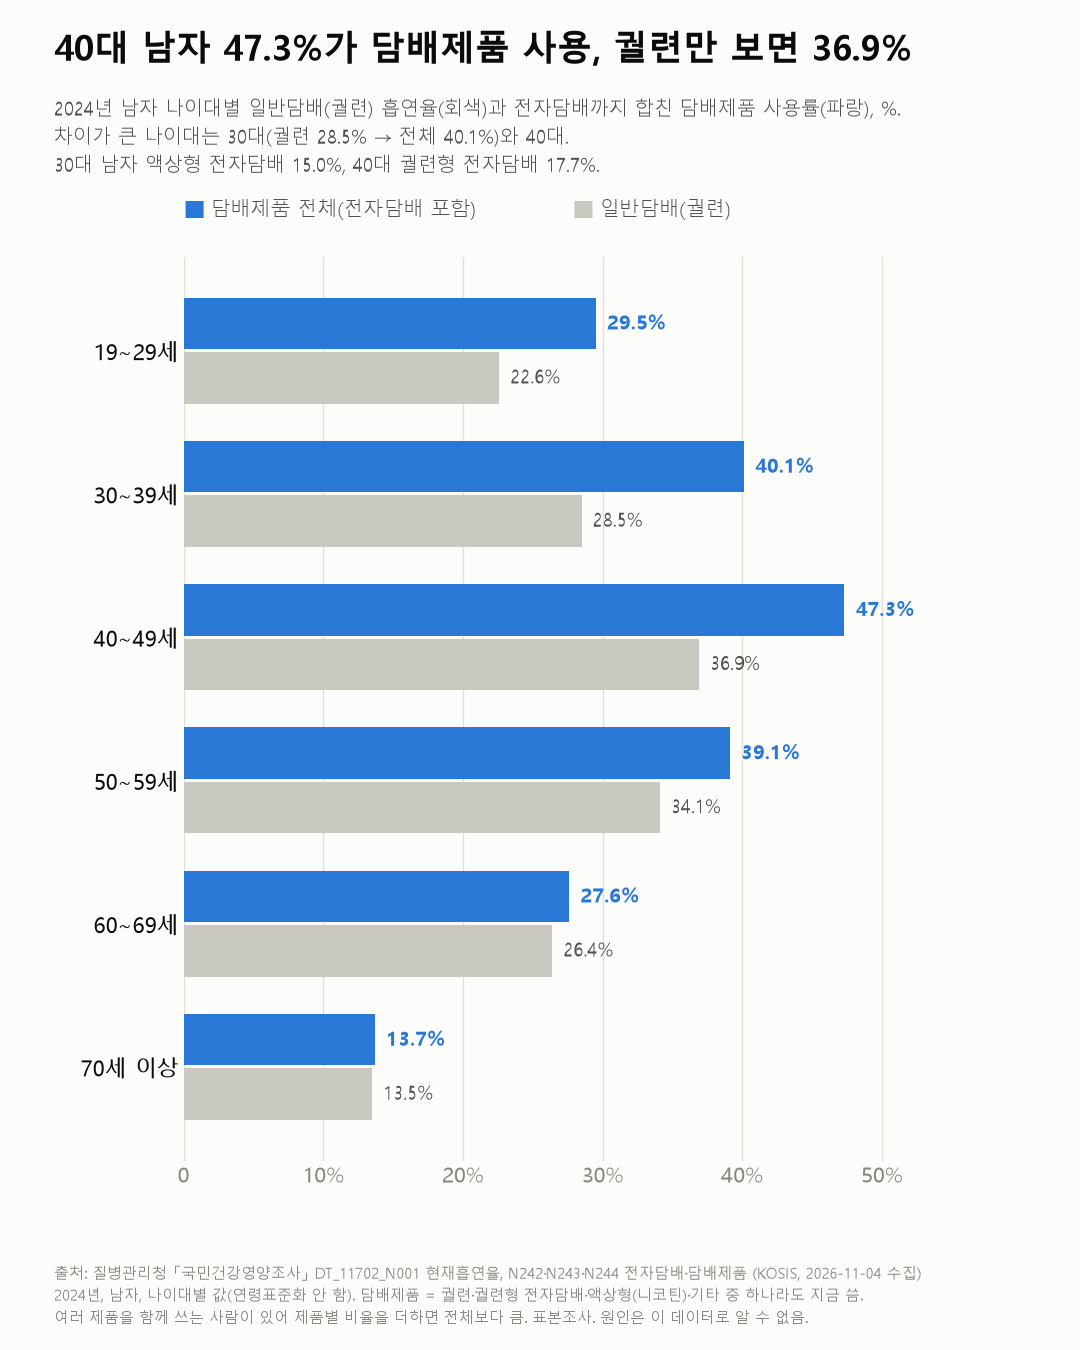
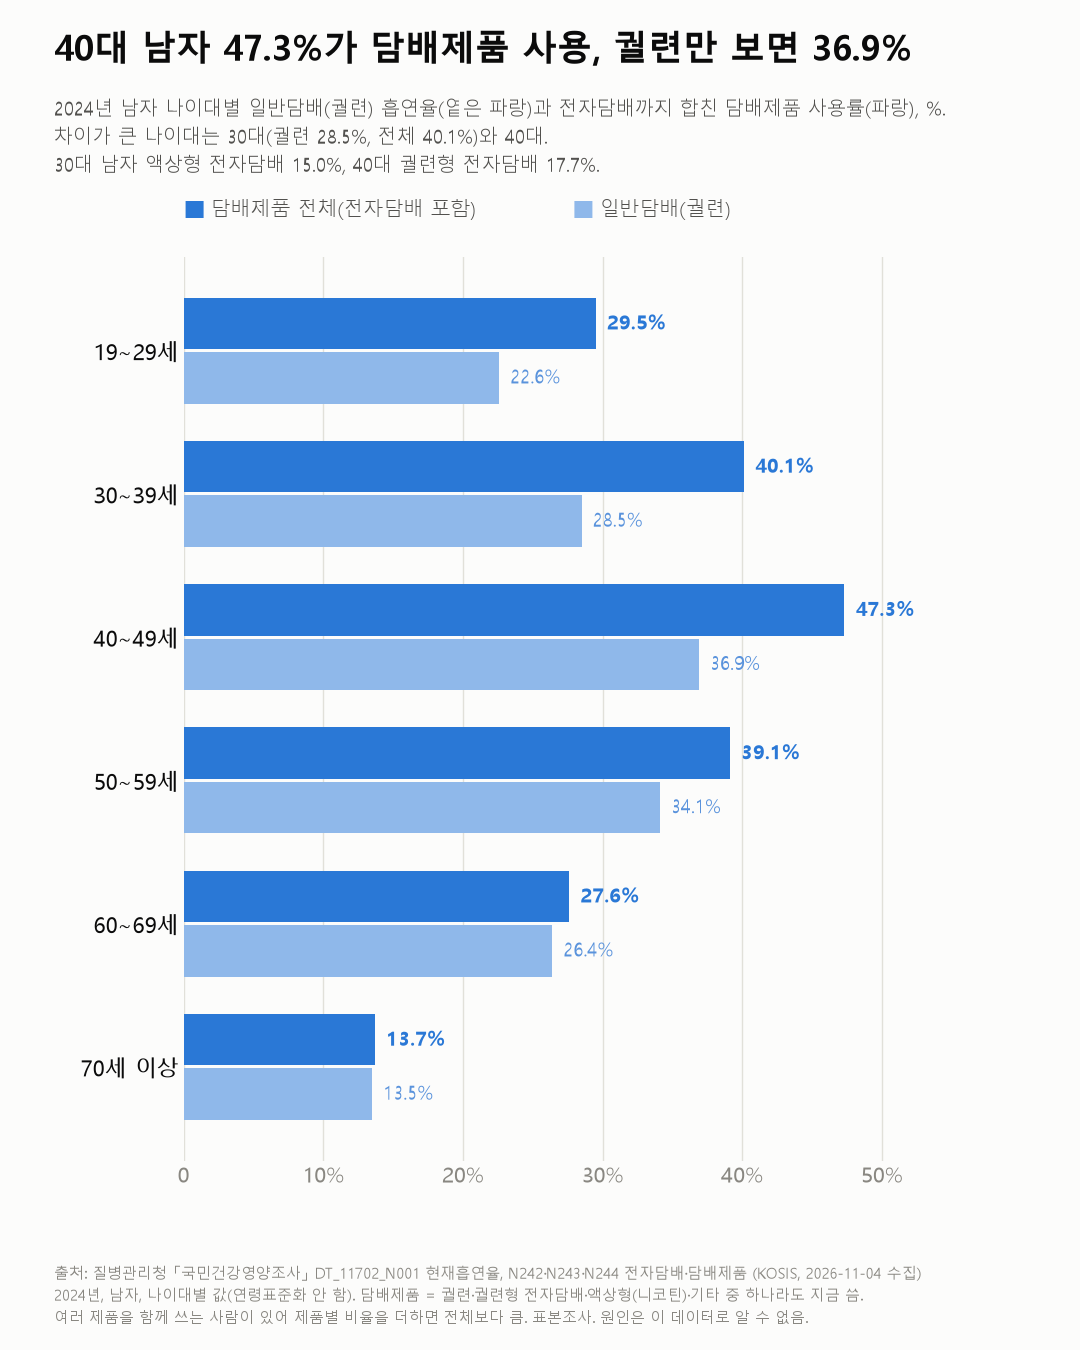
사이트 갱신

diff --git a/2026-11_smoking/index.html b/2026-11_smoking/index.html
@@ -69,7 +69,7 @@
 <p><strong>1. 2024년 남자 일반담배(궐련) 흡연율은 28.5%로, 1998년(66.3%, 20세 이상)의 절반 아래다.</strong> 여자는 6.5% → 4.2%.</p>
 <p><strong>2. 전자담배까지 합친 담배제품 사용률은 남자 36.0%, 여자 6.9%.</strong> 궐련만 볼 때보다 남자 7.5%p, 여자 2.7%p 높다.</p>
 <p><strong>3. 2019년 이후 남자 궐련은 35.7% → 28.5%로 줄었지만, 담배제품 전체는 39.7% → 36.0%로 덜 줄었다.</strong></p>
-<p><strong>4. 2024년 40대 남자는 47.3%가 담배제품을 쓴다(궐련만은 36.9%).</strong> 궐련과 전체의 차이가 큰 나이대는 30대(28.5% → 40.1%)와 40대. 30대 남자 액상형 전자담배 15.0%, 40대 궐련형 전자담배 17.7%.</p>
+<p><strong>4. 2024년 40대 남자는 47.3%가 담배제품을 쓴다(궐련만은 36.9%).</strong> 궐련과 전체의 차이가 큰 나이대는 30대(궐련 28.5%, 전체 40.1%)와 40대. 30대 남자 액상형 전자담배 15.0%, 40대 궐련형 전자담배 17.7%.</p>
 <p><a class="chart-link" href="chart_smoking_age.png" title="원본 크기로 보기"><img alt="2024년 남자 나이대별" src="chart_smoking_age.png" /></a></p>
 </section><section class="sec sec-limits"><h2>한계</h2><p class="sec-note">이 데이터로 말할 수 없는 것</p>
 <ul>
